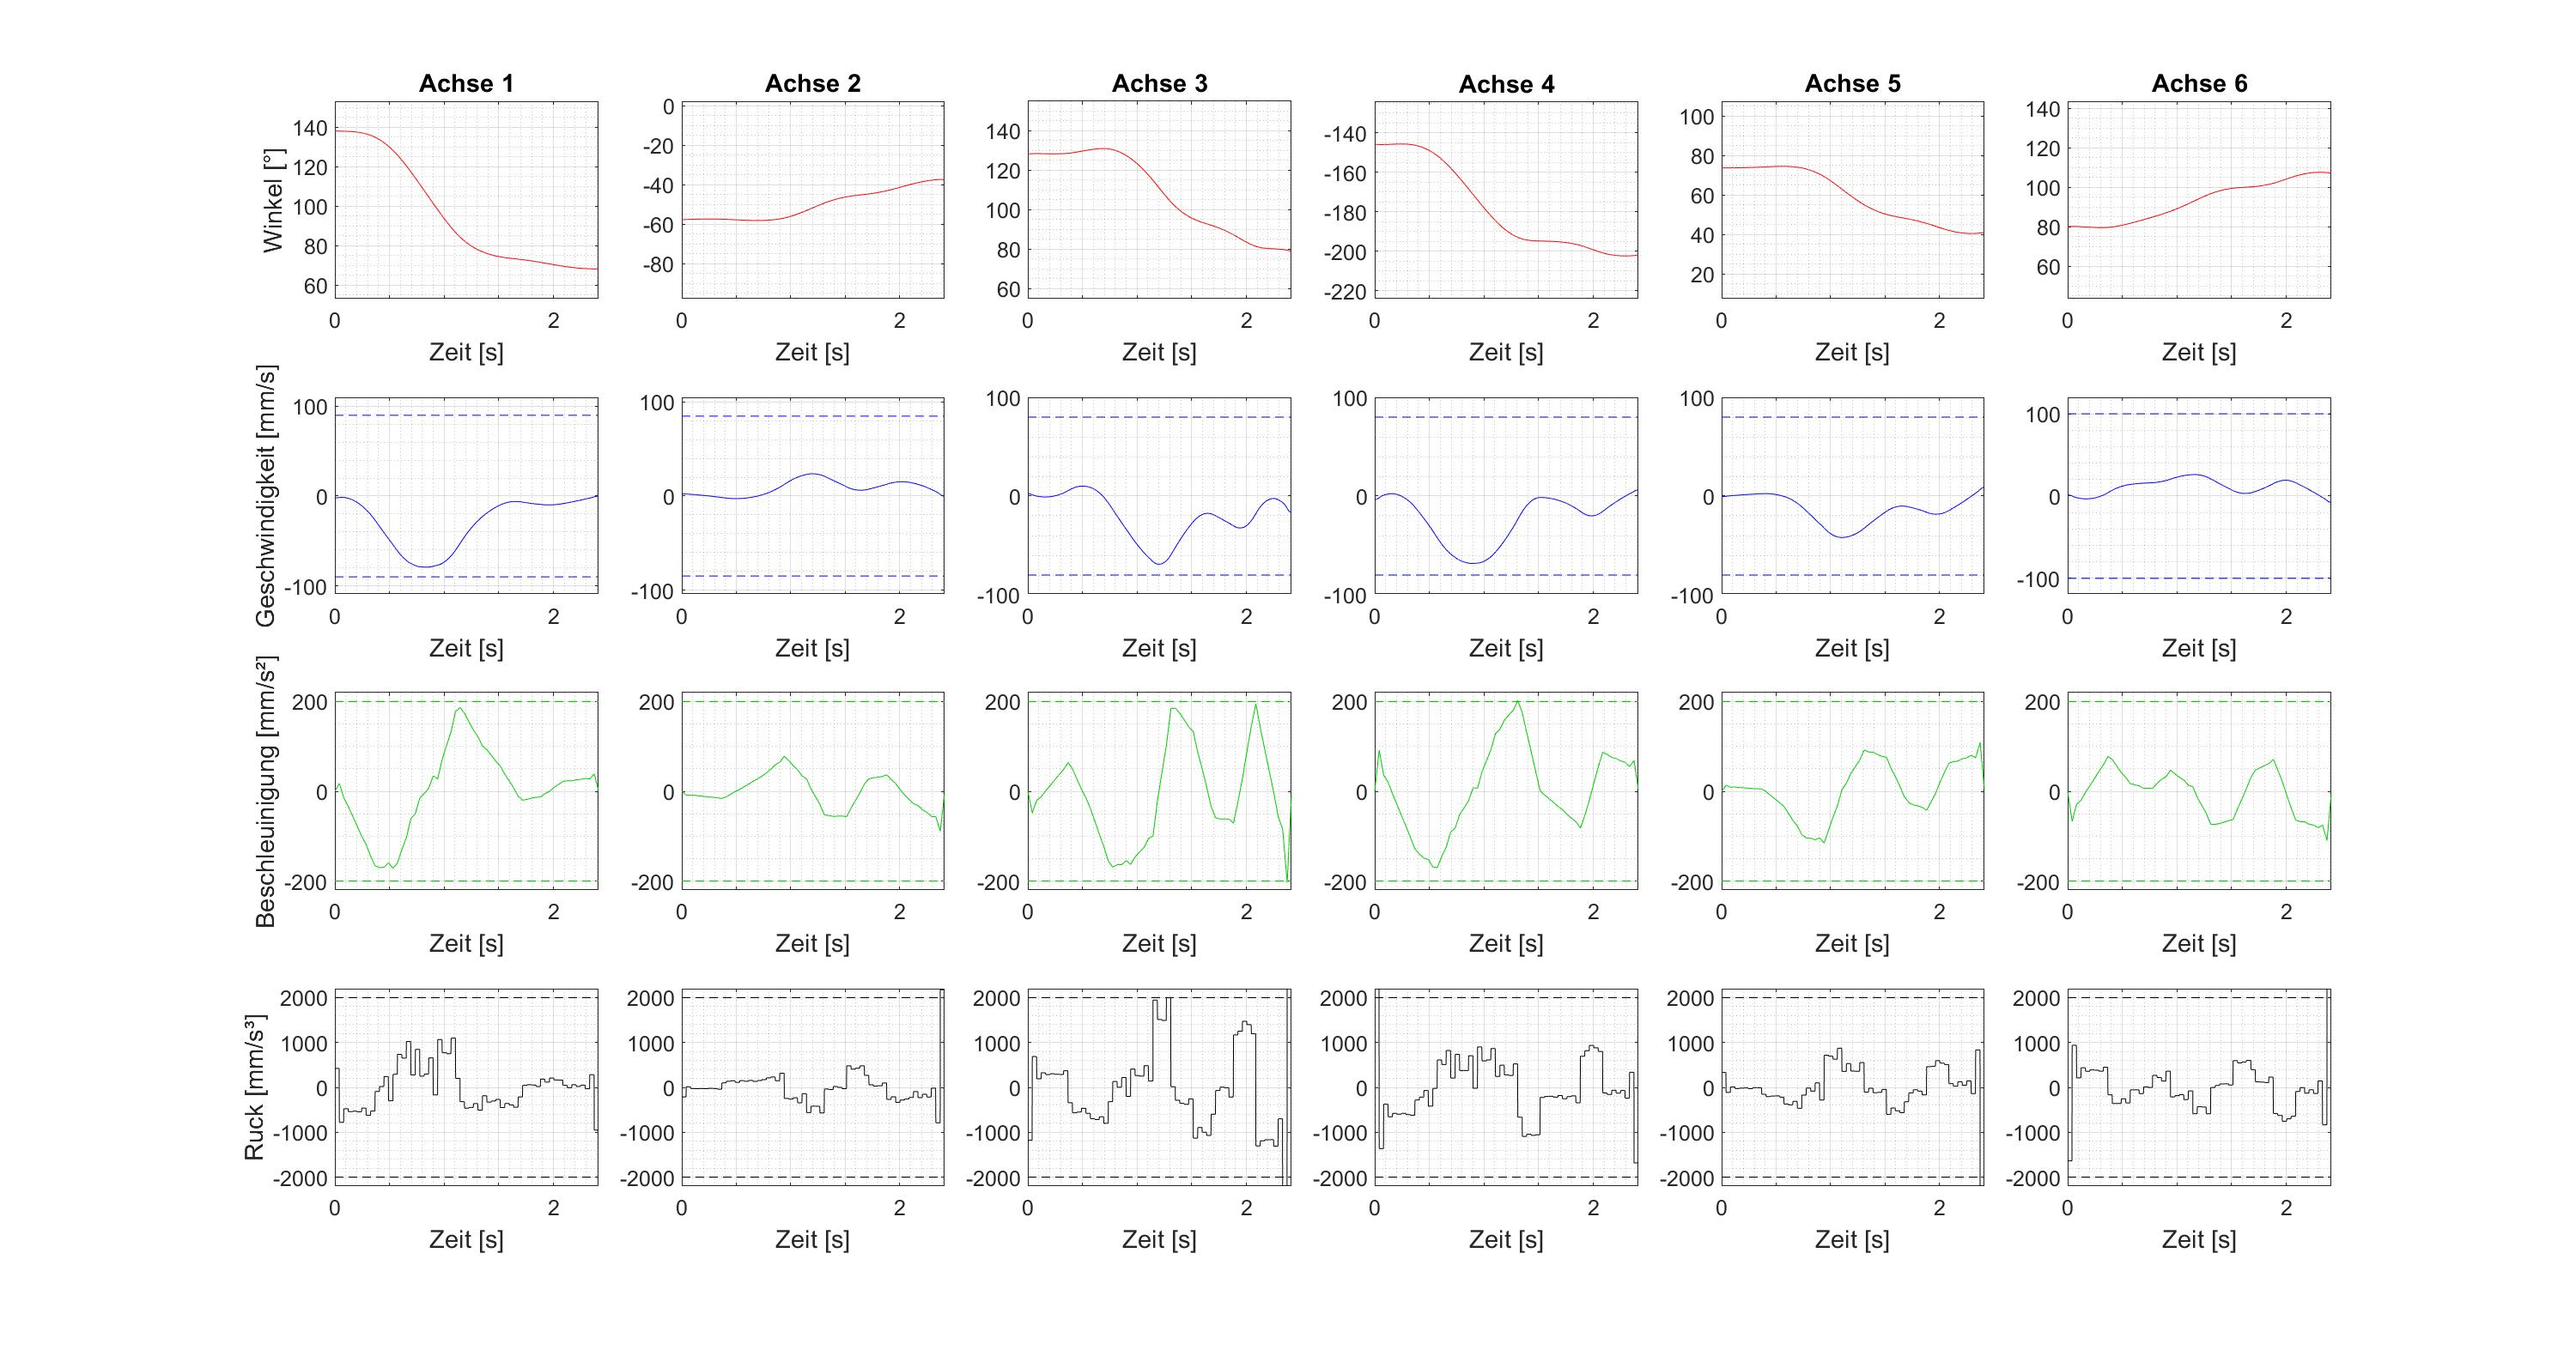
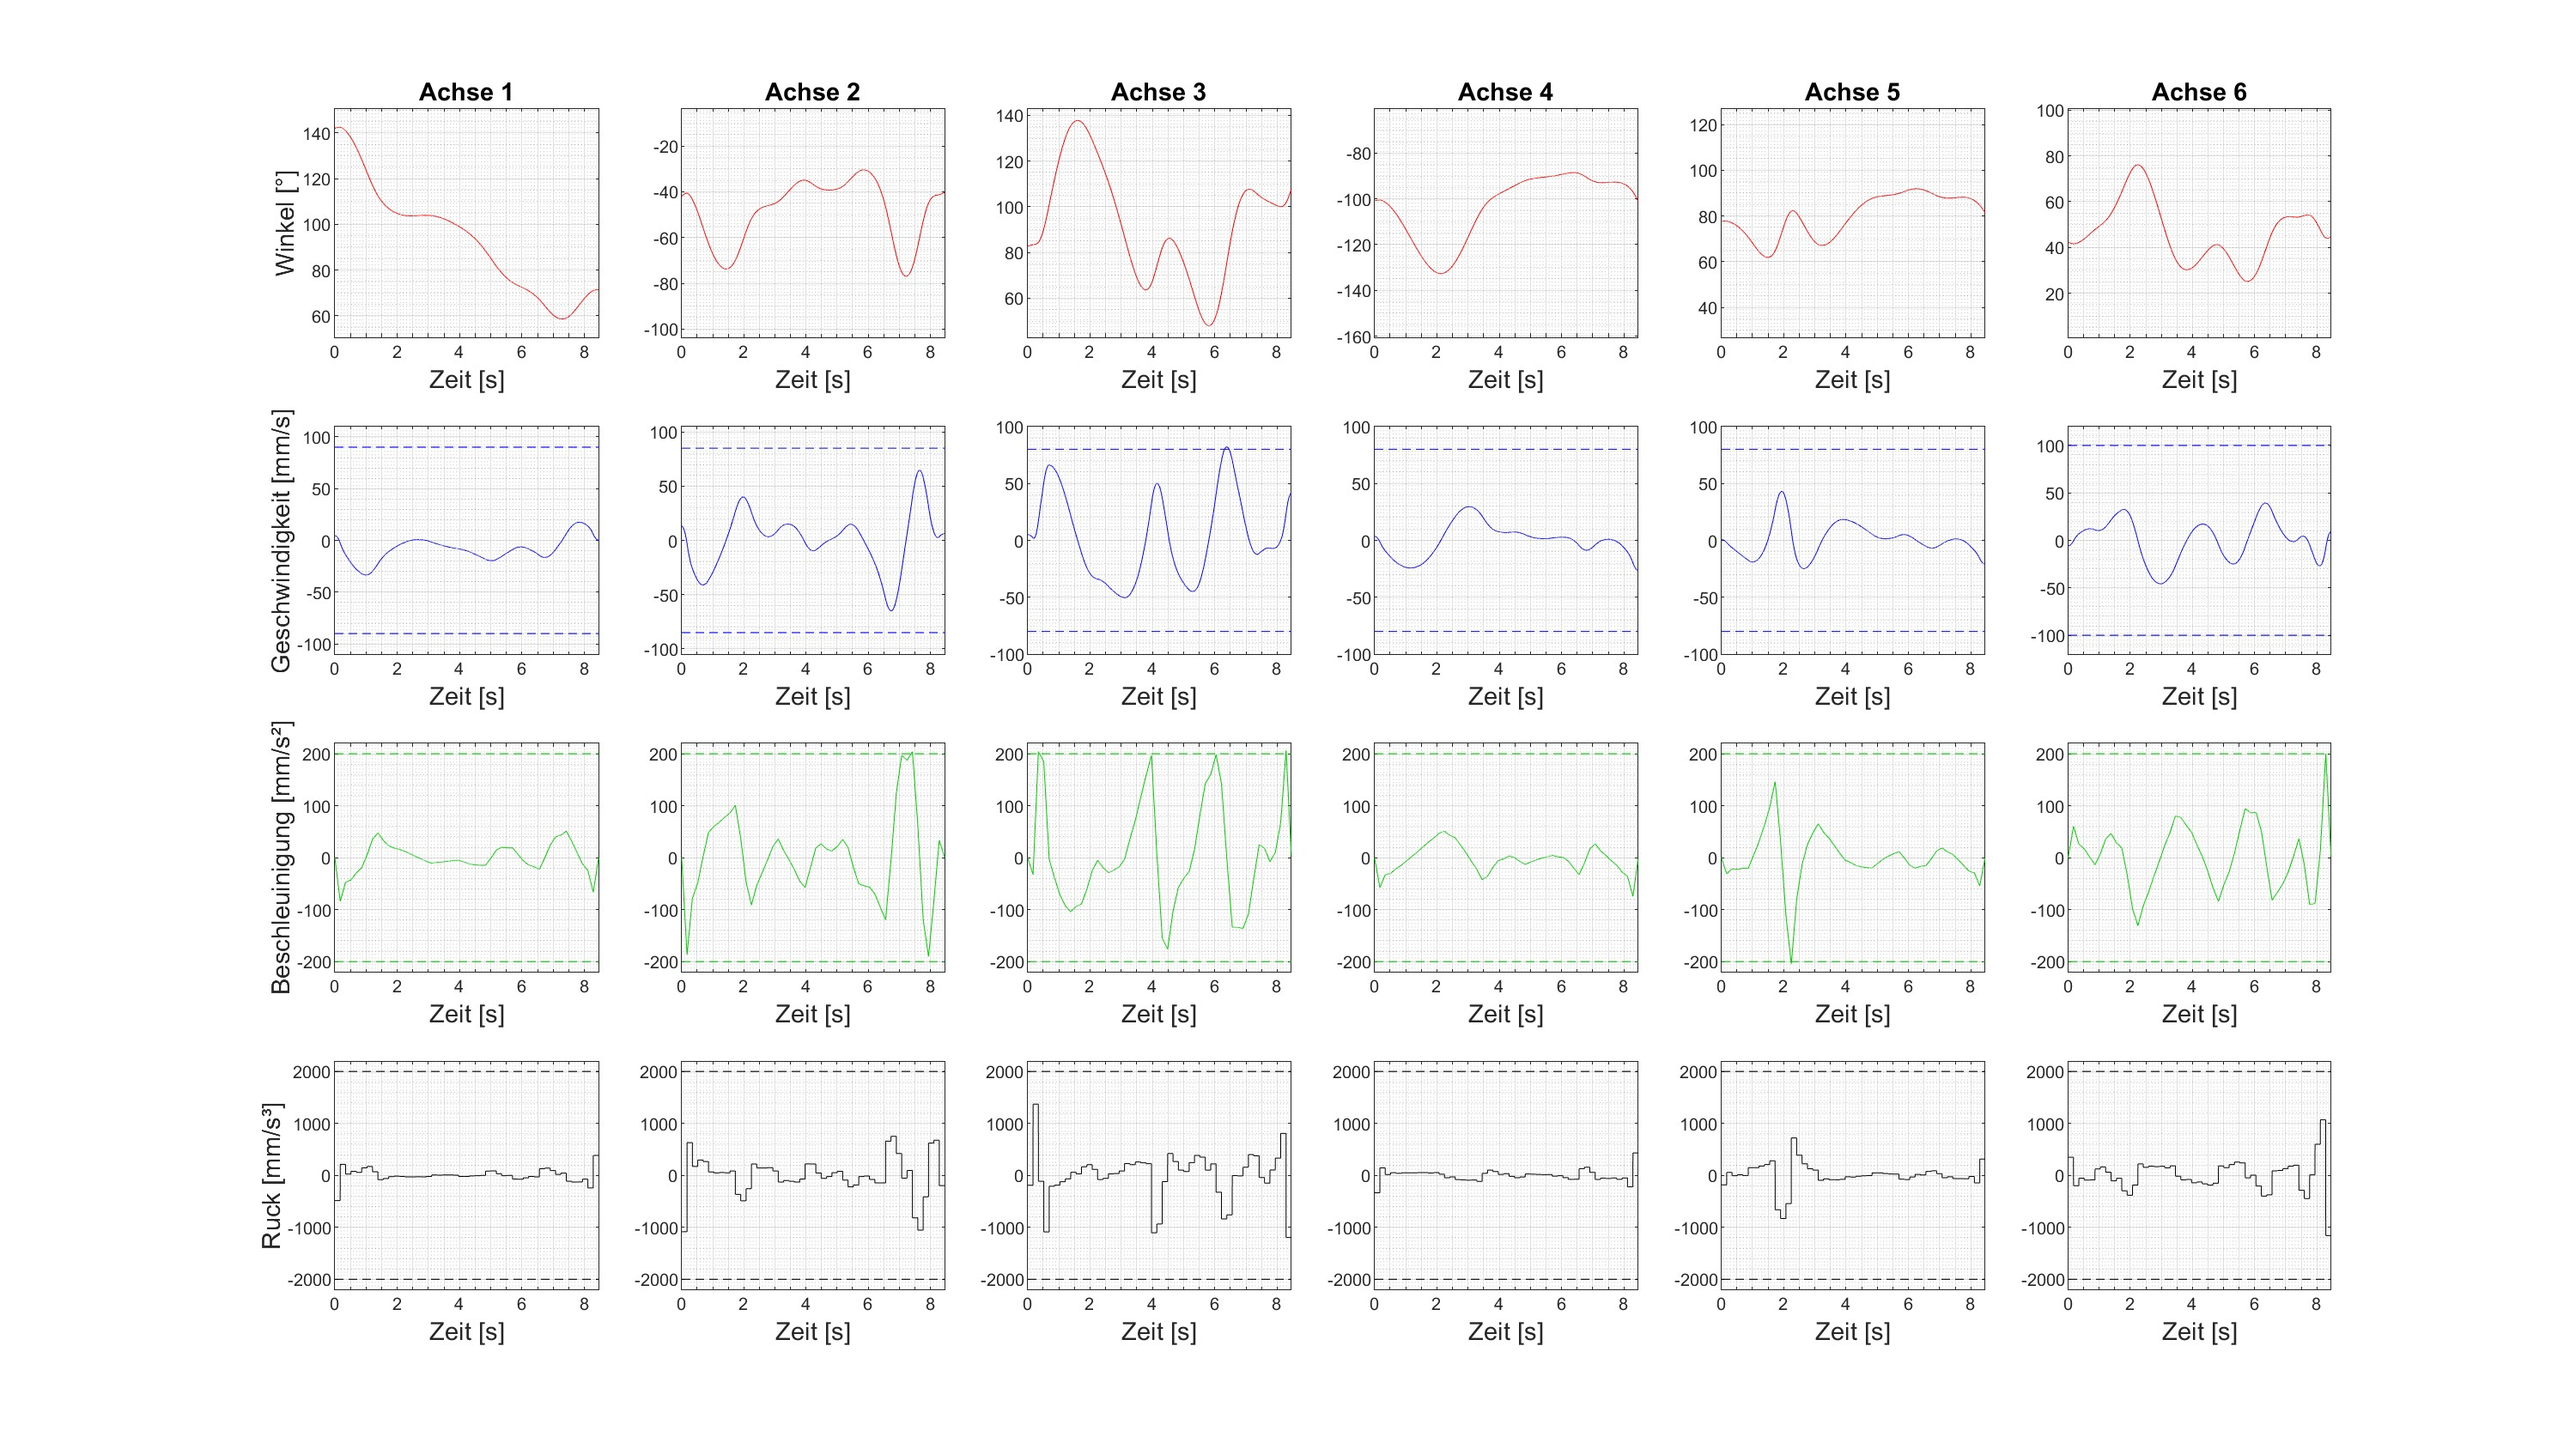
- Show old HRoCast

Changed region(s): [[0.093, 0.0623, 0.899, 0.9345]]

diff --git a/Optimal Steuerung/HiRoCast_EinzelAchsenSim/HiRoCast_OptimalControl.m b/Optimal Steuerung/HiRoCast_EinzelAchsenSim/HiRoCast_OptimalControl.m
@@ -128,10 +128,10 @@ if booleanVisualisation
 
     show_spline(optimized_translational_values, 'Bad Output');
 
-%     KSetUp;
-%     showBahn = optimized_translational_values;
-%     showBahn(:,1) = [];
-%     laufbahn(robot,showBahn,1,true)    
+    KSetUp;
+    showBahn = optimized_translational_values;
+    showBahn(:,1) = [];
+    laufbahn(robot,showBahn,1,true)    
        
     for z = 1:length(optimized_translational_values)
         [pos, eulerZYX,eulerXYZ, y_direction] = vorwaertskinematik(optimized_translational_values(z,2:7));

diff --git a/Optimal Steuerung/Alt/HiRoCast-Cool_5/HiRoCast_OptimalControl.m b/Optimal Steuerung/Alt/HiRoCast-Cool_5/HiRoCast_OptimalControl.m
@@ -1,6 +1,6 @@
 close all
 %Variablen
-regression = load("regressionKat4.mat");
+% regression = load("regressionKat4.mat");
 simulation_data = readtable('simulationData.txt');
 
 %Load data
@@ -11,7 +11,7 @@ simulation_data = readtable('simulationData.txt');
 % Baut den Roboter und minJerkPath
 KSetUp;
 KPfadgenerator;
-%laufbahn(robot,minJerkPath,1,true)
+laufbahn(robot,minJerkPath,1,true)
 
 % input der achsstellungen
 init_ax_values = [ones(size(minJerkPath,1),1) minJerkPath];
